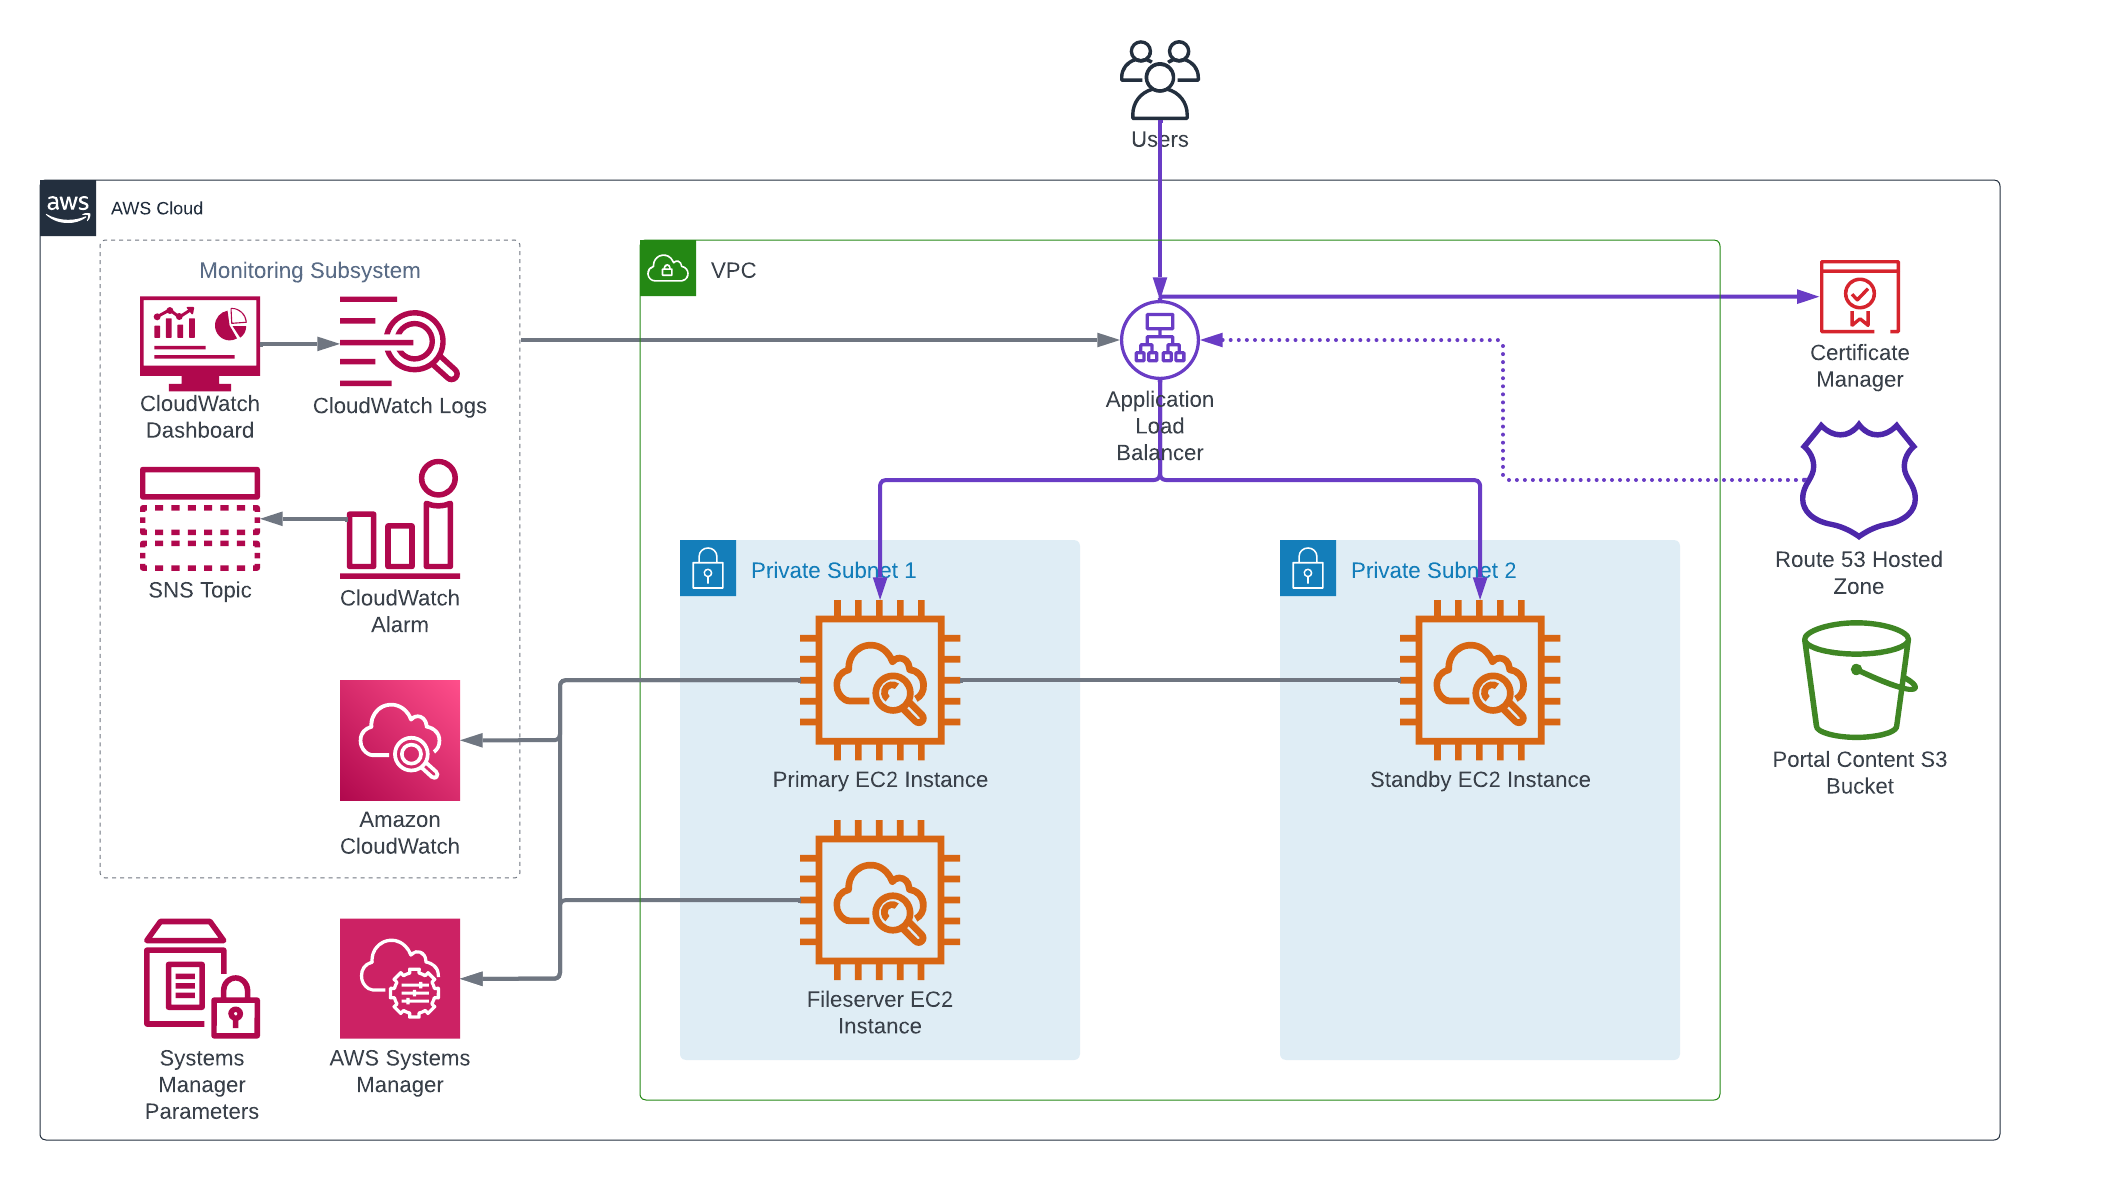
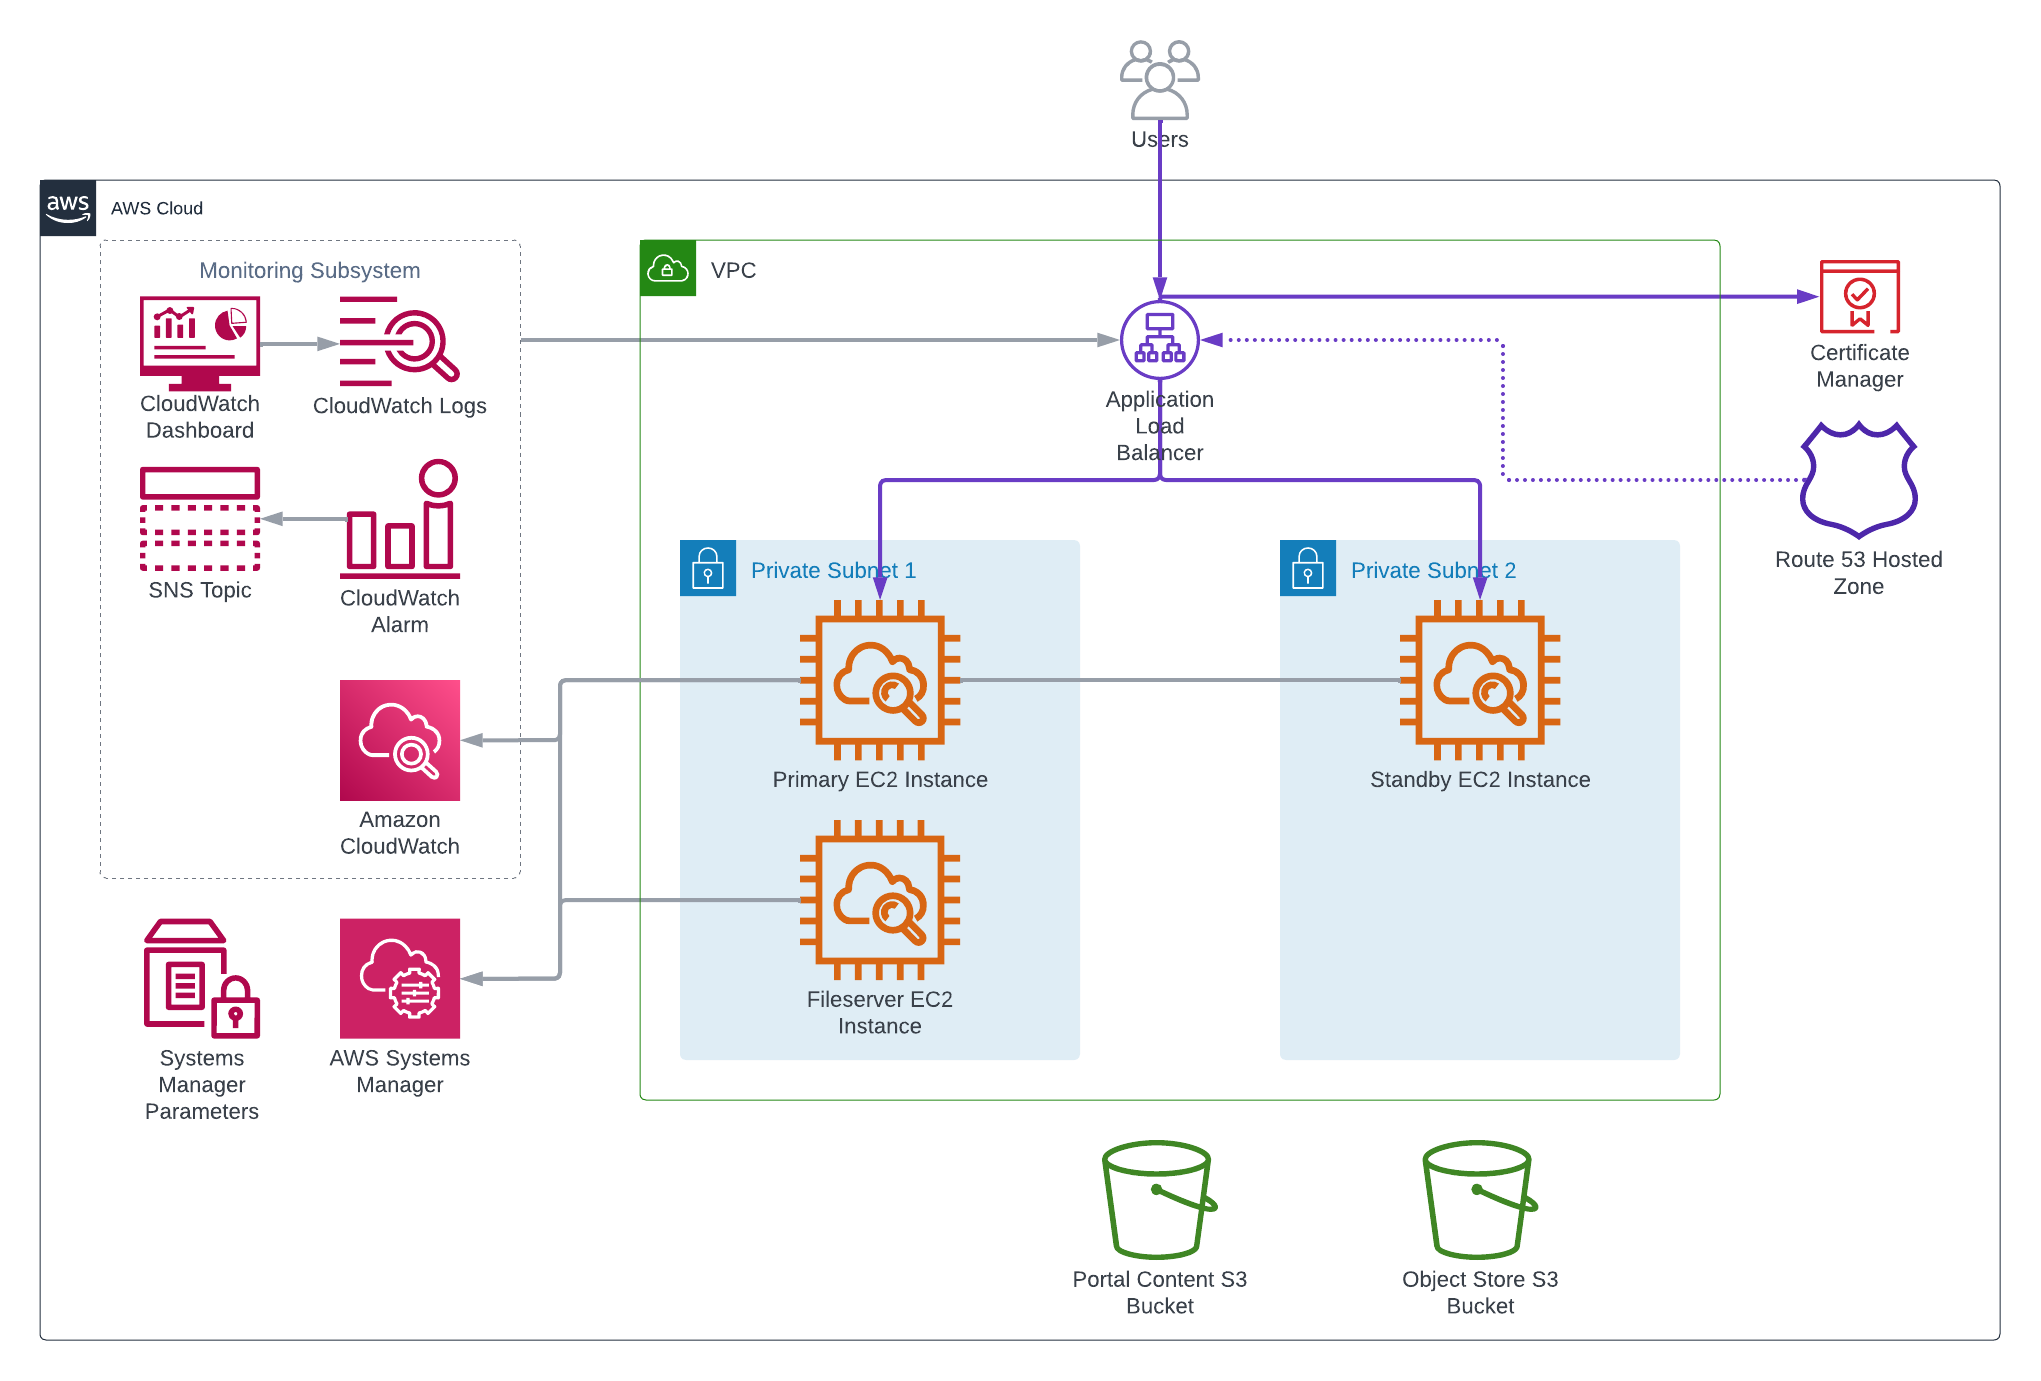
#176 Use S3 bucket for object store instead of tile cache ArcGIS Data Store

Changed region(s): [[0.0309, 0.0305, 0.9569, 0.9763], [0.0, 0.122, 0.1235, 0.2136]]

diff --git a/aws/arcgis-enterprise-base-linux/infrastructure/README.md b/aws/arcgis-enterprise-base-linux/infrastructure/README.md
@@ -15,6 +15,8 @@ For the EC2 instances the module creates "A" records in the VPC Route53 private 
 
 A highly available EFS file system is created and mounted to the EC2 instances.
 
+S3 buckets for the portal content and object store are created. The S3 buckets names are stored in the SSM parameters.
+
 The module creates an Application Load Balancer (ALB) with listeners for ports 80, 443, 6443, and 7443 and target groups for the listeners that target the EC2 instances.
 Internet-facing load balancer is configured to use two of the public VPC subnets, while internal load balancer uses the private subnets.
 
@@ -63,10 +65,7 @@ The module uses the following SSM parameters:
 | /arcgis/${var.site_id}/images/${var.deployment_id}/primary | Primary EC2 instance AMI Id |
 | /arcgis/${var.site_id}/images/${var.deployment_id}/standby | Standby EC2 instance AMI Id |
 | /arcgis/${var.site_id}/s3/logs | S3 bucket for SSM commands output |
-| /arcgis/${var.site_id}/vpc/public-subnet-1 | public VPC subnet 1 Id |
-| /arcgis/${var.site_id}/vpc/public-subnet-2 | public VPC subnet 2 Id |
-| /arcgis/${var.site_id}/vpc/private-subnet-1 | private VPC subnet 1 Id |
-| /arcgis/${var.site_id}/vpc/private-subnet-2 | private VPC subnet 2 Id |
+| /arcgis/${var.site_id}/vpc/subnets | Ids of VPC subnets |
 | /arcgis/${var.site_id}/vpc/hosted-zone-id | VPC hosted zone Id |
 | /arcgis/${var.site_id}/vpc/id | VPC Id |
 
@@ -110,6 +109,7 @@ The module uses the following SSM parameters:
 | [aws_route53_record.arcgis_enterprise](https://registry.terraform.io/providers/hashicorp/aws/latest/docs/resources/route53_record) | resource |
 | [aws_route53_record.primary](https://registry.terraform.io/providers/hashicorp/aws/latest/docs/resources/route53_record) | resource |
 | [aws_route53_record.standby](https://registry.terraform.io/providers/hashicorp/aws/latest/docs/resources/route53_record) | resource |
+| [aws_s3_bucket.object_store](https://registry.terraform.io/providers/hashicorp/aws/latest/docs/resources/s3_bucket) | resource |
 | [aws_s3_bucket.portal_content](https://registry.terraform.io/providers/hashicorp/aws/latest/docs/resources/s3_bucket) | resource |
 | [aws_security_group.arcgis_alb](https://registry.terraform.io/providers/hashicorp/aws/latest/docs/resources/security_group) | resource |
 | [aws_security_group_rule.allow_arcgis_portal_https](https://registry.terraform.io/providers/hashicorp/aws/latest/docs/resources/security_group_rule) | resource |
@@ -117,6 +117,7 @@ The module uses the following SSM parameters:
 | [aws_security_group_rule.allow_http](https://registry.terraform.io/providers/hashicorp/aws/latest/docs/resources/security_group_rule) | resource |
 | [aws_security_group_rule.allow_https](https://registry.terraform.io/providers/hashicorp/aws/latest/docs/resources/security_group_rule) | resource |
 | [aws_ssm_parameter.alb_security_group_id](https://registry.terraform.io/providers/hashicorp/aws/latest/docs/resources/ssm_parameter) | resource |
+| [aws_ssm_parameter.object_store_s3_bucket](https://registry.terraform.io/providers/hashicorp/aws/latest/docs/resources/ssm_parameter) | resource |
 | [aws_ssm_parameter.portal_content_s3_bucket](https://registry.terraform.io/providers/hashicorp/aws/latest/docs/resources/ssm_parameter) | resource |
 | [aws_ami.ami](https://registry.terraform.io/providers/hashicorp/aws/latest/docs/data-sources/ami) | data source |
 | [aws_region.current](https://registry.terraform.io/providers/hashicorp/aws/latest/docs/data-sources/region) | data source |

diff --git a/aws/arcgis-enterprise-base-windows/infrastructure/README.md b/aws/arcgis-enterprise-base-windows/infrastructure/README.md
@@ -62,10 +62,7 @@ The module uses the following SSM parameters:
 | /arcgis/${var.site_id}/images/${var.deployment_id}/primary | Primary EC2 instance AMI Id |
 | /arcgis/${var.site_id}/images/${var.deployment_id}/standby | Standby EC2 instance AMI Id |
 | /arcgis/${var.site_id}/s3/logs | S3 bucket for SSM commands output |
-| /arcgis/${var.site_id}/vpc/public-subnet/1 | public VPC subnet 1 Id |
-| /arcgis/${var.site_id}/vpc/public-subnet/2 | public VPC subnet 2 Id |
-| /arcgis/${var.site_id}/vpc/private-subnet/1 | private VPC subnet 1 Id |
-| /arcgis/${var.site_id}/vpc/private-subnet/2 | private VPC subnet 2 Id |
+| /arcgis/${var.site_id}/vpc/subnets | Ids of VPC subnets |
 | /arcgis/${var.site_id}/vpc/hosted-zone-id | VPC hosted zone Id |
 | /arcgis/${var.site_id}/vpc/id | VPC Id |
 
@@ -108,6 +105,7 @@ The module uses the following SSM parameters:
 | [aws_route53_record.fileserver](https://registry.terraform.io/providers/hashicorp/aws/latest/docs/resources/route53_record) | resource |
 | [aws_route53_record.primary](https://registry.terraform.io/providers/hashicorp/aws/latest/docs/resources/route53_record) | resource |
 | [aws_route53_record.standby](https://registry.terraform.io/providers/hashicorp/aws/latest/docs/resources/route53_record) | resource |
+| [aws_s3_bucket.object_store](https://registry.terraform.io/providers/hashicorp/aws/latest/docs/resources/s3_bucket) | resource |
 | [aws_s3_bucket.portal_content](https://registry.terraform.io/providers/hashicorp/aws/latest/docs/resources/s3_bucket) | resource |
 | [aws_security_group.arcgis_alb](https://registry.terraform.io/providers/hashicorp/aws/latest/docs/resources/security_group) | resource |
 | [aws_security_group_rule.allow_arcgis_portal_https](https://registry.terraform.io/providers/hashicorp/aws/latest/docs/resources/security_group_rule) | resource |
@@ -115,6 +113,7 @@ The module uses the following SSM parameters:
 | [aws_security_group_rule.allow_http](https://registry.terraform.io/providers/hashicorp/aws/latest/docs/resources/security_group_rule) | resource |
 | [aws_security_group_rule.allow_https](https://registry.terraform.io/providers/hashicorp/aws/latest/docs/resources/security_group_rule) | resource |
 | [aws_ssm_parameter.alb_security_group_id](https://registry.terraform.io/providers/hashicorp/aws/latest/docs/resources/ssm_parameter) | resource |
+| [aws_ssm_parameter.object_store_s3_bucket](https://registry.terraform.io/providers/hashicorp/aws/latest/docs/resources/ssm_parameter) | resource |
 | [aws_ssm_parameter.portal_content_s3_bucket](https://registry.terraform.io/providers/hashicorp/aws/latest/docs/resources/ssm_parameter) | resource |
 | [aws_ami.ami](https://registry.terraform.io/providers/hashicorp/aws/latest/docs/data-sources/ami) | data source |
 | [aws_ssm_parameter.fileserver_ami](https://registry.terraform.io/providers/hashicorp/aws/latest/docs/data-sources/ssm_parameter) | data source |

diff --git a/aws/arcgis-enterprise-base-windows/application/README.md b/aws/arcgis-enterprise-base-windows/application/README.md
@@ -47,6 +47,7 @@ The module uses the following SSM parameters:
 | SSM parameter name | Description |
 |--------------------|-------------|
 | /arcgis/${var.site_id}/${var.deployment_id}/content-s3-bucket | S3 bucket for the portal content |
+| /arcgis/${var.site_id}/${var.deployment_id}/object-store-s3-bucket | S3 bucket for the object store |
 | /arcgis/${var.site_id}/${var.deployment_id}/sns-topic-arn | SNS topic ARN of the monitoring subsystem |
 | /arcgis/${var.site_id}/chef-client-url/${var.os} | Chef Client URL |
 | /arcgis/${var.site_id}/cookbooks-url | Chef cookbooks URL |
@@ -94,6 +95,7 @@ The module uses the following SSM parameters:
 | [aws_instance.primary](https://registry.terraform.io/providers/hashicorp/aws/latest/docs/data-sources/instance) | data source |
 | [aws_instance.standby](https://registry.terraform.io/providers/hashicorp/aws/latest/docs/data-sources/instance) | data source |
 | [aws_region.current](https://registry.terraform.io/providers/hashicorp/aws/latest/docs/data-sources/region) | data source |
+| [aws_ssm_parameter.object_store](https://registry.terraform.io/providers/hashicorp/aws/latest/docs/data-sources/ssm_parameter) | data source |
 | [aws_ssm_parameter.s3_content](https://registry.terraform.io/providers/hashicorp/aws/latest/docs/data-sources/ssm_parameter) | data source |
 | [aws_ssm_parameter.sns_topic](https://registry.terraform.io/providers/hashicorp/aws/latest/docs/data-sources/ssm_parameter) | data source |
 

diff --git a/aws/arcgis-enterprise-base-linux/README.md b/aws/arcgis-enterprise-base-linux/README.md
@@ -2,6 +2,10 @@
 
 The template provides GitHub Actions workflows for [base ArcGIS Enterprise deployment](https://enterprise.arcgis.com/en/get-started/latest/linux/base-arcgis-enterprise-deployment.htm) operations on Linux platforms.
 
+Supported ArcGIS Enterprise versions:
+
+* 11.4
+
 Before running the template workflows:
 
 1. Configure the GitHub repository settings as described in the [Instructions](../README.md#instructions) section.
